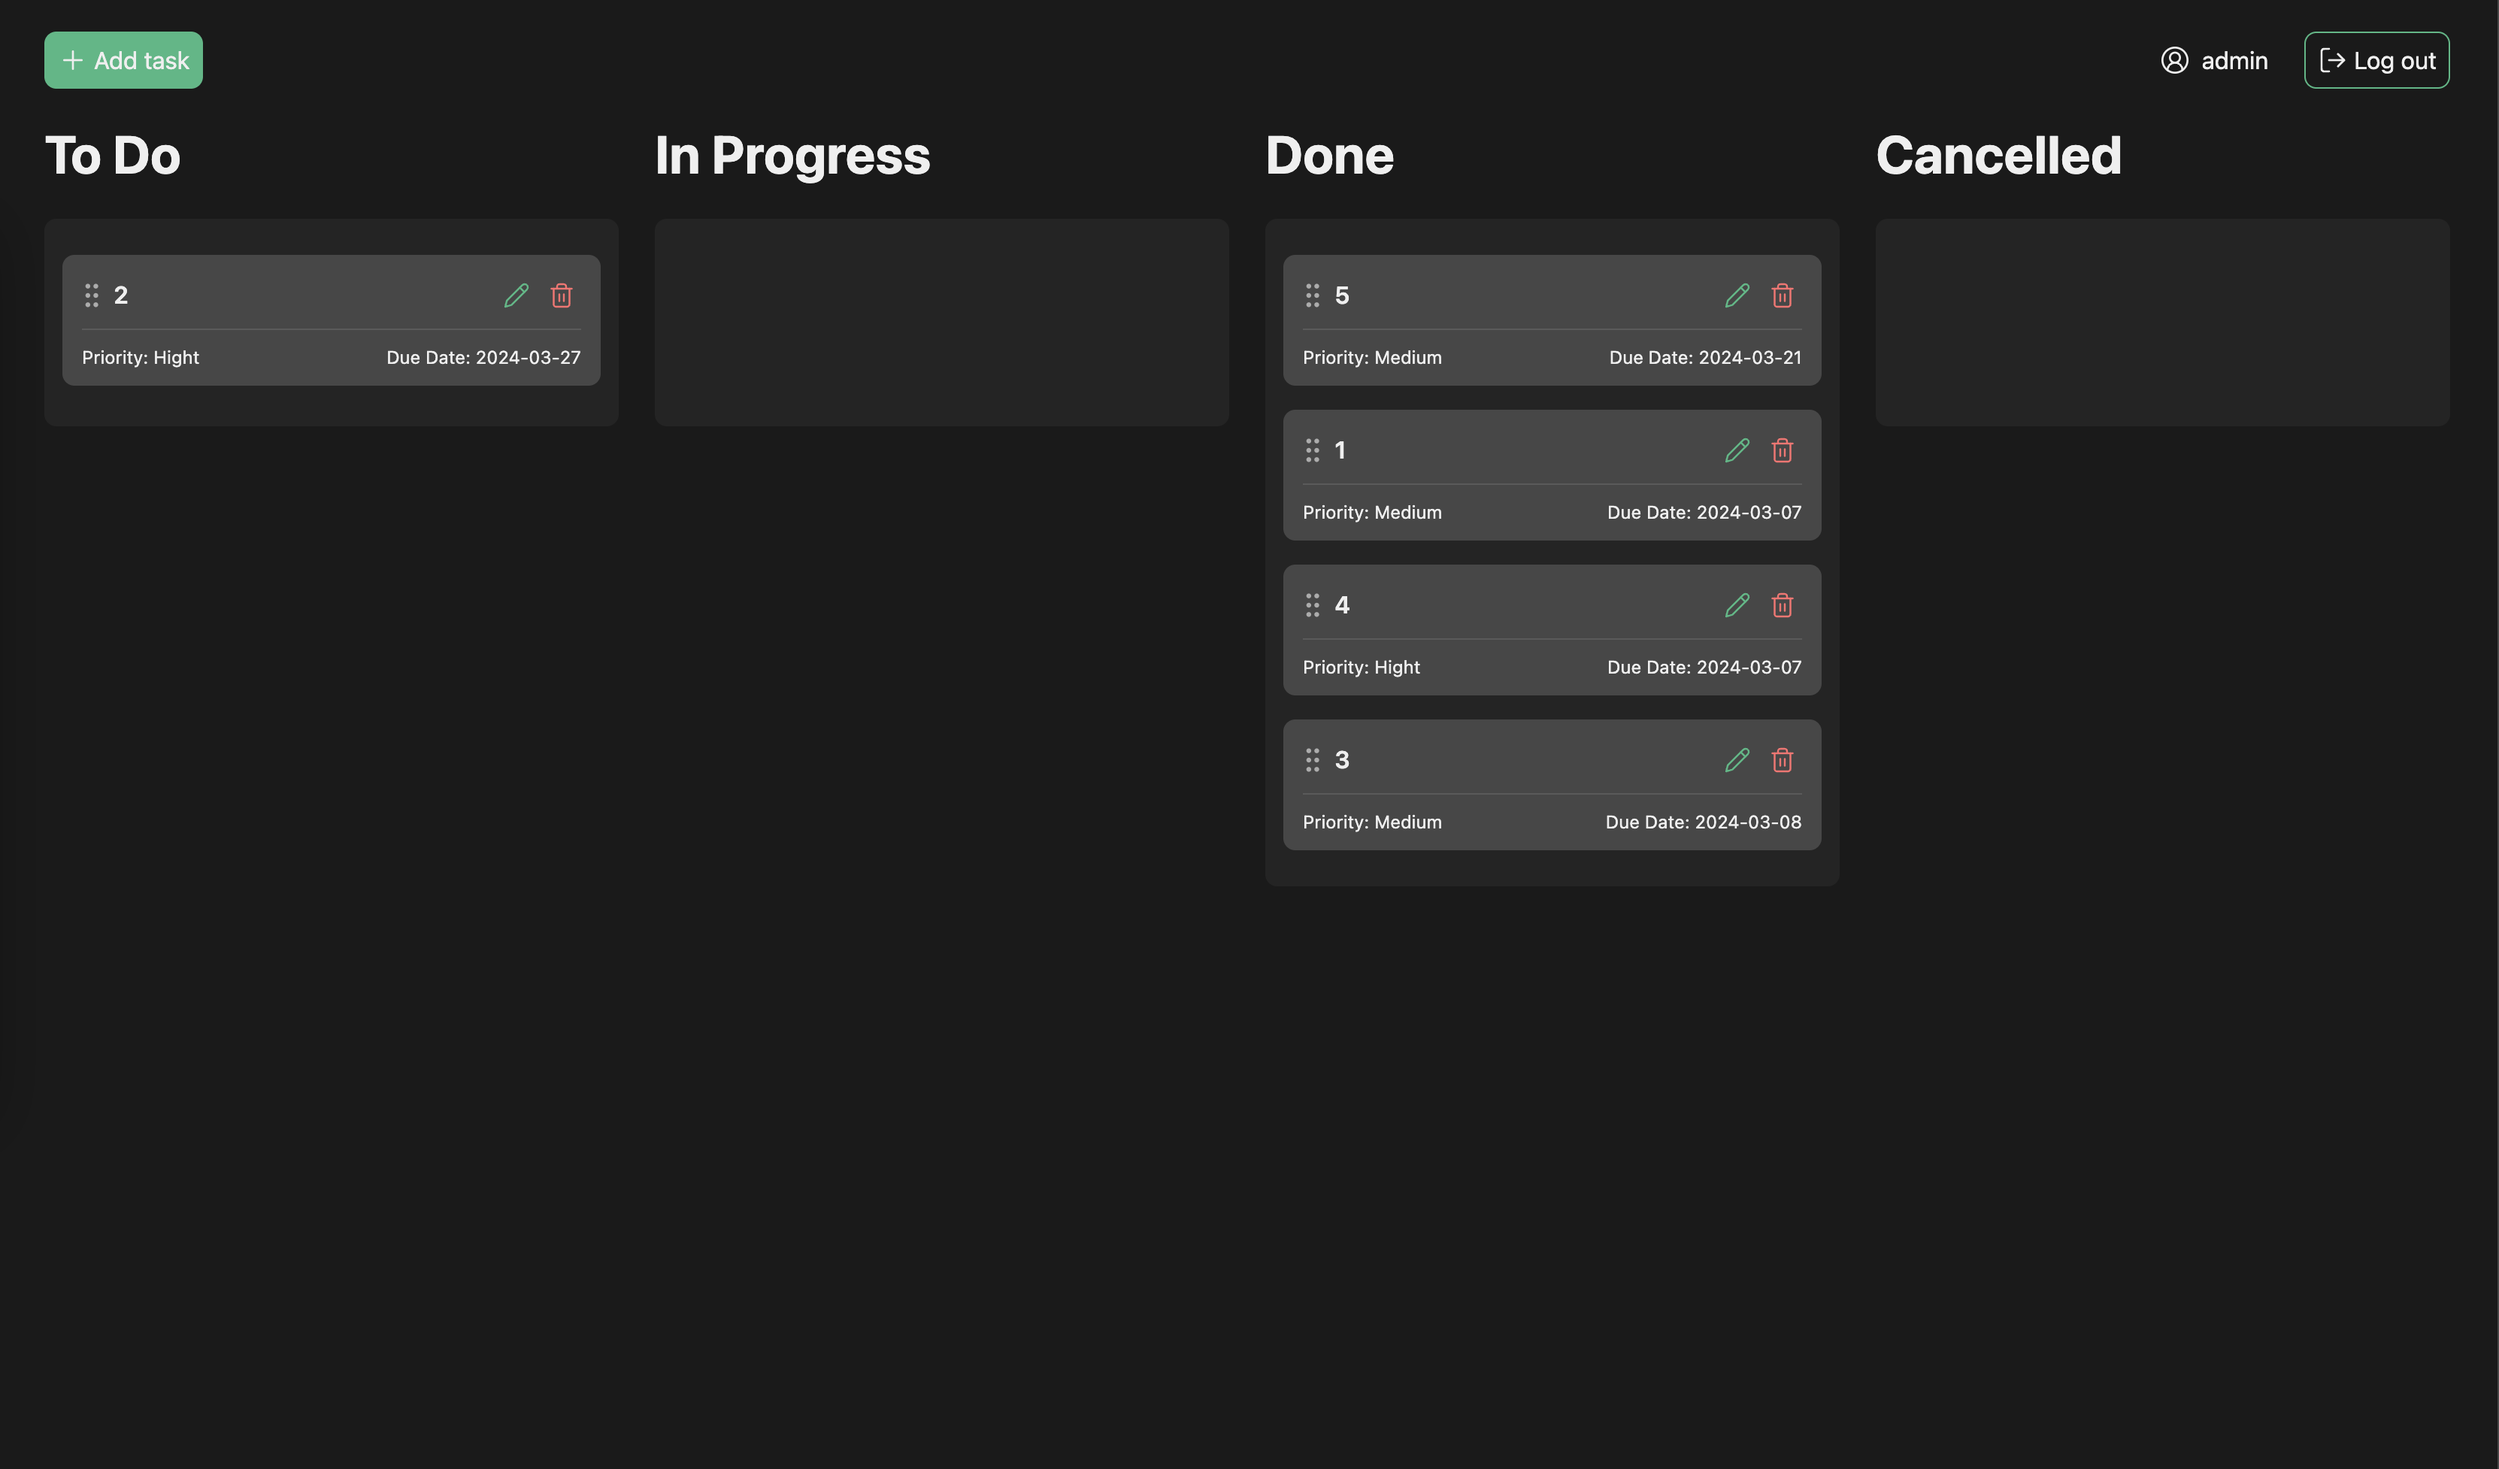
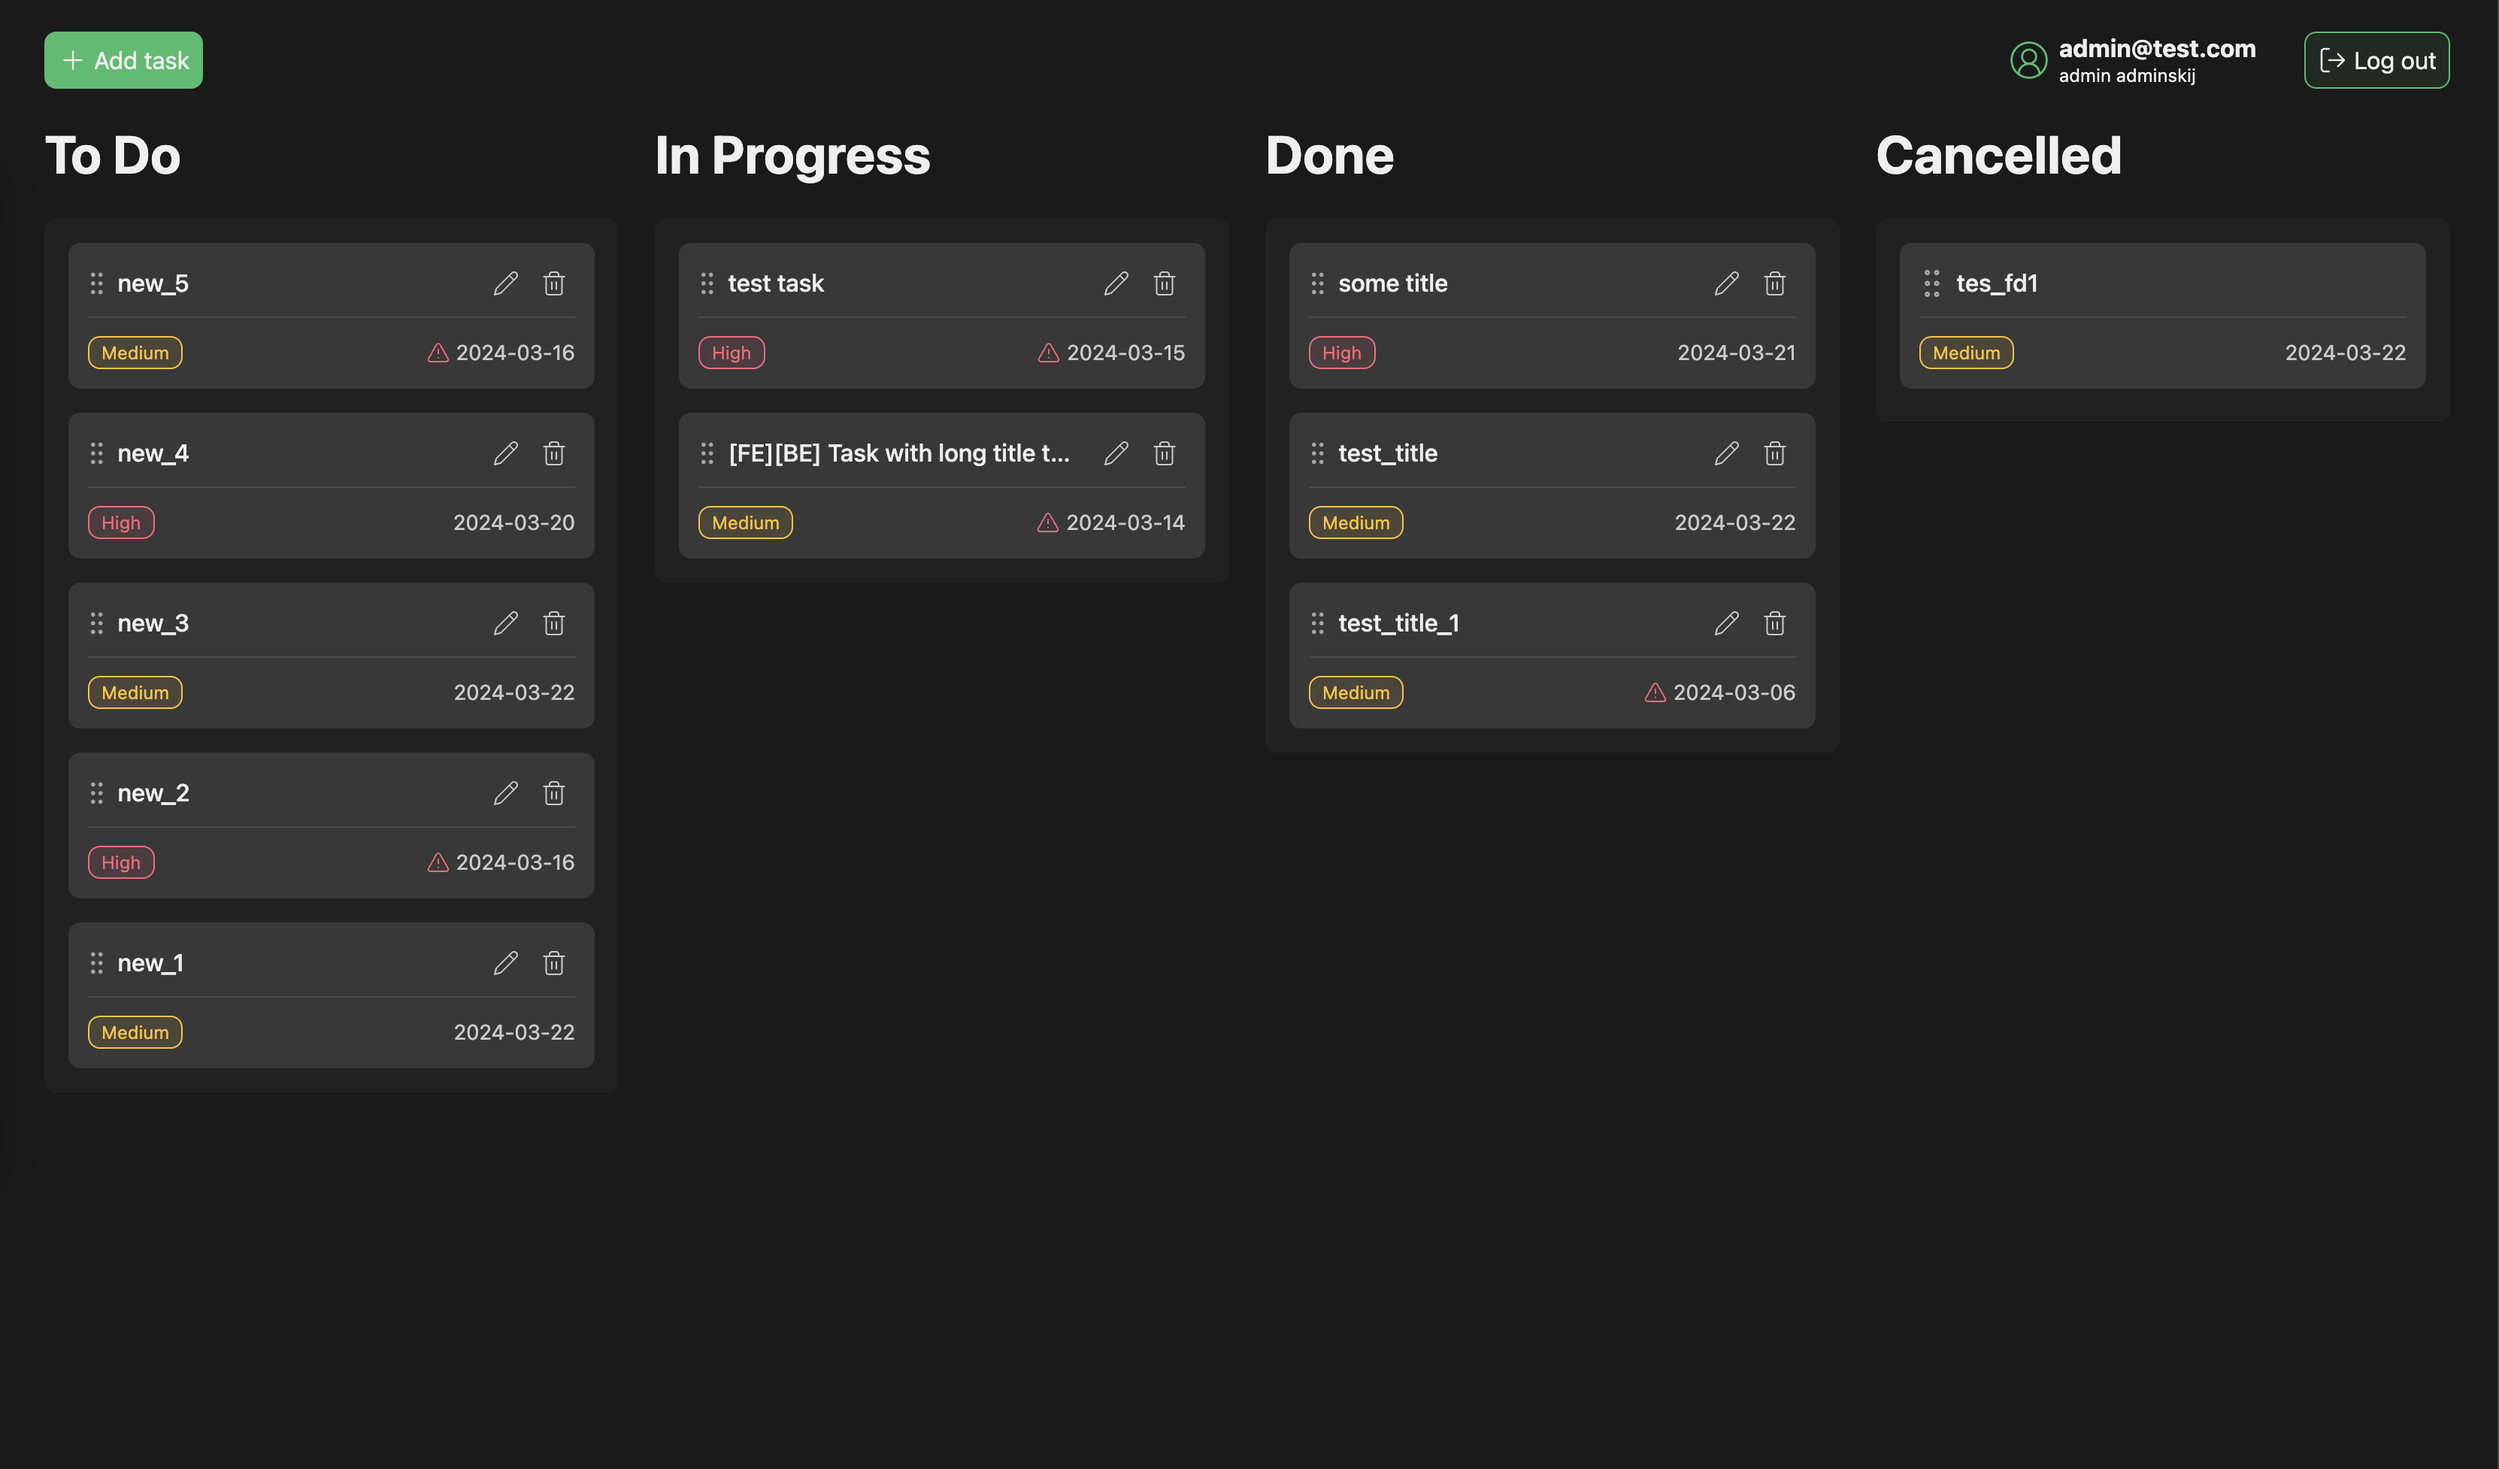
Improvements

diff --git a/client/src/components/UI/Notification/NotificationItem.vue b/client/src/components/UI/Notification/NotificationItem.vue
@@ -1,11 +1,13 @@
 <script setup lang="ts">
-import { NotificationProps } from '../../../stores/useNotificationStore.types.ts';
-import { onMounted } from 'vue';
+import { NotificationProps, NotificationType } from '../../../stores/useNotificationStore.types.ts';
+import { computed, onMounted } from 'vue';
 import { NOTIFICATION_REMOVE_TIMEOUT, useNotificationStore } from '../../../stores/useNotificationStore.ts';
 import Icon from '../Icon.vue';
 
 const props = defineProps<{ item: NotificationProps }>();
 const notificationStore = useNotificationStore();
+
+const isErrorNotification = computed(() => props.item.type === NotificationType.Error)
 
 onMounted(() => {
     setTimeout(
@@ -16,37 +18,58 @@ onMounted(() => {
 </script>
 
 <template>
-    <div class="notification-item">
-        <div class="notification-item__title">
-            <h3>{{ item.status }} {{ item.title }}</h3>
-            <button @click="notificationStore.closeNotification(item.key)" class="outline">
-                <Icon name="X" />
-            </button>
-        </div>
+    <div
+        class="notification-item"
+        :class="isErrorNotification && 'notification-item--error'"
+    >
+        <button @click="notificationStore.closeNotification(item.key)" class="outline">
+            <Icon name="X" size="18" />
+        </button>
+
+        <h3 v-if="item.status || item.title">{{ item.status }} {{ item.title }}</h3>
         <p>{{ item.message }}</p>
     </div>
 </template>
 
 <style scoped lang="scss">
 .notification-item {
+    position: relative;
     padding: 12px 12px 12px 24px;
+    min-height: 38px;
+
+    display: flex;
+    flex-direction: column;
+    justify-content: center;
+
+    border-left: 4px solid var(--primary-color);
 
     background: var(--grey-color);
     border-radius: var(--border-radius);
 
-    &__title {
-        display: flex;
-        align-items: center;
-        justify-content: space-between;
-        margin-bottom: 12px;
+    &--error {
+        border-left: 4px solid var(--warning--color);
+    }
 
-        button {
-            padding: 4px;
-        }
+    button {
+        position: absolute;
+        top: 12px;
+        right: 12px;
+
+        color: var(--white-color);
+        border-color: var(--white-color);
+        background-color: transparent;
+        padding: 4px;
     }
 
     h3, p {
         margin: 0;
+
+        width: 220px;
+        word-break: break-word;
+    }
+
+    h3 {
+        margin-bottom: 12px;
     }
 }
 </style>

diff --git a/client/src/components/DashboardColumnItem.vue b/client/src/components/DashboardColumnItem.vue
@@ -1,16 +1,13 @@
 <script setup lang="ts">
 import Icon from './UI/Icon.vue';
-import { Priority, Task } from '../api/types.ts';
+import { Priority, Task, TaskStatus } from '../api/types.ts';
 import { useModalStore } from '../stores/useModalStore.ts';
 import { computed } from 'vue';
 import { useBoardStore } from '../stores/useBoardStore.ts';
 import Tag from './UI/Tag.vue';
 import { TagVariant } from './types.ts';
 
-type ItemProps = {
-    item: Task
-}
-const props = defineProps<ItemProps>();
+const props = defineProps<{ item: Task }>();
 const item = computed(() => props.item);
 
 const modalStore = useModalStore();
@@ -25,7 +22,6 @@ const calculateDeadline = (targetDate: string, deadline: number) => {
 
     return diffDays <= deadline;
 };
-const isDeadline = computed(() => calculateDeadline(props.item.due_date, 1));
 
 const priorityMap = {
     [Priority.Low]: {
@@ -41,6 +37,9 @@ const priorityMap = {
         label: 'High',
     },
 };
+
+const isDeadline = computed(() => calculateDeadline(props.item.due_date, 1));
+const canShowActions = computed(() => item.value.status !== TaskStatus.Cancelled);
 const priority = computed(() => priorityMap[props.item.priority]);
 </script>
 
@@ -51,12 +50,14 @@ const priority = computed(() => priorityMap[props.item.priority]);
             <span>
                 {{ item.title }}
             </span>
-            <button @click="modalStore.openTaskModal(item)" class="outline item__edit">
-                <Icon name="Pencil" size="18" />
-            </button>
-            <button @click="boardStore.deleteTask(item.id)" class="outline item__delete">
-                <Icon name="Trash2" size="18" />
-            </button>
+            <template v-if="canShowActions">
+                <button @click="modalStore.openTaskModal(item)" class="outline item__edit">
+                    <Icon name="Pencil" size="18" />
+                </button>
+                <button @click="boardStore.deleteTask(item.id)" class="outline item__delete">
+                    <Icon name="Trash2" size="18" />
+                </button>
+            </template>
         </div>
 
         <div class="item__common-info">

diff --git a/client/src/components/DashboardHeader.vue b/client/src/components/DashboardHeader.vue
@@ -3,9 +3,19 @@ import Icon from './UI/Icon.vue';
 
 import { useModalStore } from '../stores/useModalStore.ts';
 import { useAuthStore } from '../stores/useAuthStore.ts';
+import { useNotificationStore } from '../stores/useNotificationStore.ts';
 
 const modalStore = useModalStore();
 const authStore = useAuthStore();
+const notificationStore = useNotificationStore();
+
+const onCopy = () => {
+    const token = authStore.authState.token || ''
+
+    navigator.clipboard.writeText(token);
+
+    notificationStore.openNotification({ message: 'Token has been copied' })
+}
 </script>
 
 <template>
@@ -24,6 +34,10 @@ const authStore = useAuthStore();
                     <span>{{ authStore.userName }}</span>
                 </div>
             </div>
+            <button @click="onCopy" class="outline header__menu__token">
+                <Icon name="Copy" />
+                <span>Copy token {{ authStore.authState.token }}</span>
+            </button>
             <button @click="authStore.logout" class="outline">
                 <Icon name="LogOut" />
                 Log out
@@ -37,12 +51,16 @@ const authStore = useAuthStore();
     display: flex;
     align-items: center;
     justify-content: space-between;
-    margin-bottom: 24px;
+    padding: 24px 0;
 
     &__menu {
         display: flex;
         align-items: center;
-        gap: 32px;
+        gap: 12px;
+
+        &__token {
+            max-width: 200px;
+        }
 
         &__user {
             display: flex;
@@ -52,6 +70,13 @@ const authStore = useAuthStore();
                 display: flex;
                 flex-direction: column;
                 gap: 4px;
+
+                strong, span {
+                    white-space: nowrap;
+                    width: 140px;
+                    overflow: hidden;
+                    text-overflow: ellipsis;
+                }
 
                 strong {
                     font-size: 16px;

diff --git a/client/src/api/index.ts b/client/src/api/index.ts
@@ -1,5 +1,6 @@
 import { getToken } from '../stores/useAuthStore.ts';
 import { useNotificationStore } from '../stores/useNotificationStore.ts';
+import { NotificationType } from '../stores/useNotificationStore.types.ts';
 
 export const fetchApi = async (path: string, options?: Omit<RequestInit, 'body'> & { body?: any }) => {
     const notificationStore = useNotificationStore()
@@ -23,6 +24,7 @@ export const fetchApi = async (path: string, options?: Omit<RequestInit, 'body'>
             const { message, status, statusText } = response.error
 
             notificationStore.openNotification({
+                type: NotificationType.Error,
                 title: statusText || 'Api Error',
                 status,
                 message,

diff --git a/client/src/components/UI/Icon.vue b/client/src/components/UI/Icon.vue
@@ -13,8 +13,9 @@ import Plus from 'lucide-vue-next/dist/esm/icons/plus.js'
 import LogOut from 'lucide-vue-next/dist/esm/icons/log-out.js'
 import CircleUserRound from 'lucide-vue-next/dist/esm/icons/circle-user-round.js'
 import AlertTriangle from 'lucide-vue-next/dist/esm/icons/alert-triangle.js'
+import Copy from 'lucide-vue-next/dist/esm/icons/copy.js'
 
-const icons = { Pencil, GripVertical, X, Trash2, Plus, LogOut, CircleUserRound, AlertTriangle }
+const icons = { Pencil, GripVertical, X, Trash2, Plus, LogOut, CircleUserRound, AlertTriangle, Copy }
 
 const props = defineProps({
     name: {

diff --git a/server/controllers/taskController.js b/server/controllers/taskController.js
@@ -5,6 +5,12 @@ const { TaskStatus } = require('../helpers/constants')
 const createTask = async (req, res, next) => {
     const { id: owner } = req.user
 
+    const amountTasks = await Board.where({ owner, status: TaskStatus.ToDo }).countDocuments()
+
+    if (amountTasks >= 5) {
+        return next(ApiError.badRequest('You can not create more than 5 tasks for to_do status'))
+    }
+
     try {
         const response = await Board.create({
             ...req.body,

diff --git a/server/controllers/userContreller.js b/server/controllers/userContreller.js
@@ -4,9 +4,9 @@ const ApiError = require('../helpers/ApiError')
 const User = require('../models/User')
 
 const generateJwt = (payload) => {
-    const options = { expiresIn: '24h' }
+    // const options = { expiresIn: '24h' }
 
-    return jwt.sign(payload, process.env.SECRET_KEY, options)
+    return jwt.sign(payload, process.env.SECRET_KEY)
 };
 
 const registration = async (req, res, next) => {

diff --git a/client/src/components/UI/Modals/AuthModalContentLogin.vue b/client/src/components/UI/Modals/AuthModalContentLogin.vue
@@ -41,7 +41,7 @@ const onSubmit = async () => {
 
         <div class="form__field">
             <label for="password" class="required">Password</label>
-            <input v-model="loginForm.password" id="password" type="password" />
+            <input v-model="loginForm.password" id="password" />
             <span class="form__field__error">{{ errors.password }}</span>
         </div>
 

diff --git a/client/src/assets/button.scss b/client/src/assets/button.scss
@@ -13,6 +13,14 @@ button {
     opacity: 1;
     transition: all ease-in-out 0.25s;
 
+    span {
+        flex: 1;
+        white-space: nowrap;
+        max-width: 320px;
+        overflow: hidden;
+        text-overflow: ellipsis;
+    }
+
     &.warning {
         background-color: var(--warning--color);
     }

diff --git a/client/src/assets/style.css b/client/src/assets/style.css
@@ -39,11 +39,12 @@ body {
   box-sizing: border-box;
   margin: 0;
   padding: 0;
-  min-width: 320px;
-  min-height: 100dvh;
+  overflow-x: hidden;
 }
 
 #app {
+  min-height: 100dvh;
+  min-width: 320px;
   max-width: 1600px;
   margin: 0 auto;
   padding: 0 16px;

diff --git a/client/src/stores/useNotificationStore.types.ts b/client/src/stores/useNotificationStore.types.ts
@@ -1,6 +1,12 @@
+export enum NotificationType {
+    Success = 'success',
+    Error = 'error'
+}
+
 export type NotificationProps = {
     key: Symbol;
     message: string | null;
+    type?: NotificationType
     title?: string;
     status?: number;
 }

diff --git a/client/src/components/UI/Notification/Notification.vue b/client/src/components/UI/Notification/Notification.vue
@@ -25,8 +25,8 @@ const { notificationState } = storeToRefs(notificationStore);
 <style scoped lang="scss">
 .notifications {
     position: fixed;
-    right: 16px;
-    top: 16px;
+    right: 24px;
+    top: 20px;
     z-index: 999;
 
     width: 100%;
